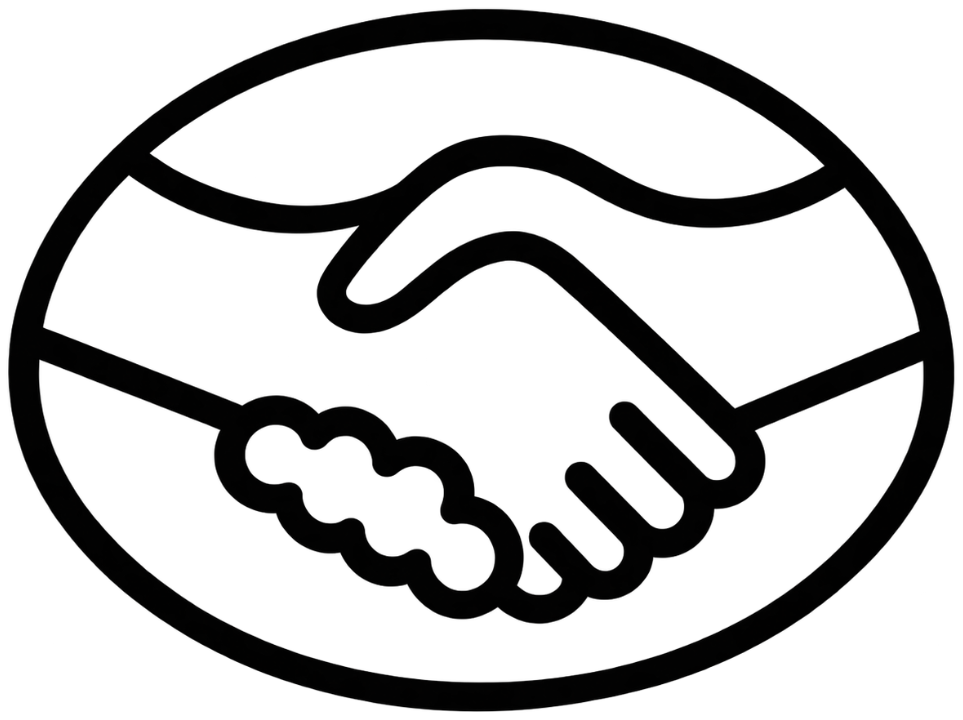
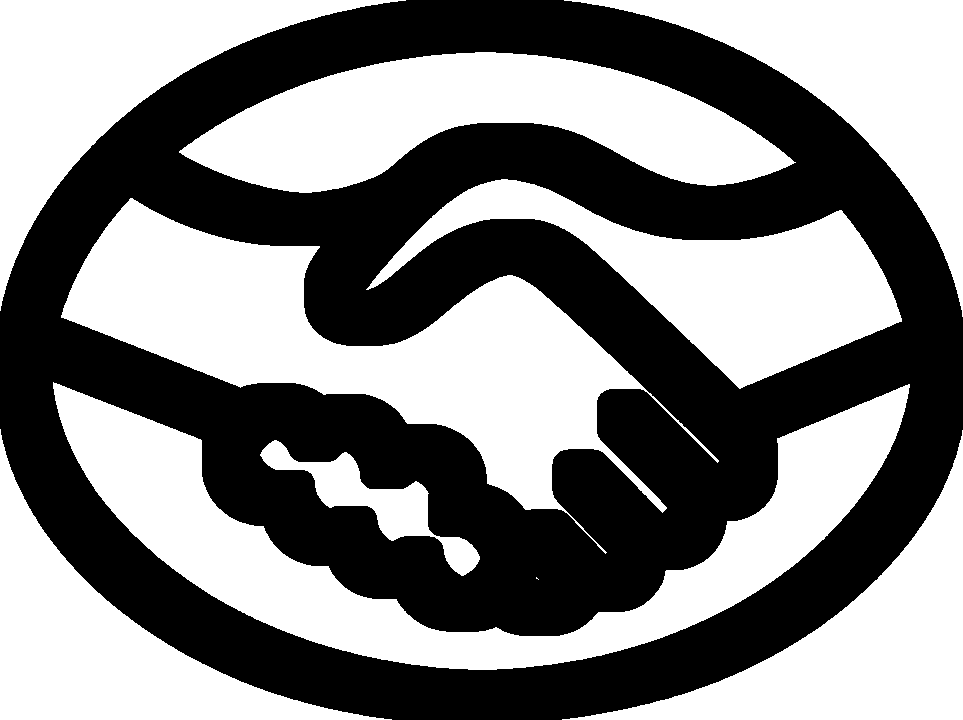
fix: reforça o branco do ícone do Mercado Livre no topo

Changed region(s): [[0.0, 0.0, 1.0, 1.0]]

diff --git a/css/base.css b/css/base.css
@@ -73,8 +73,10 @@ textarea { min-height: 88px; }
 .siga span, .atalho { color: var(--branco); font-size: 0.92rem; font-weight: 700; }
 .icone-topo { width: 32px; height: 32px; min-height: 32px; display: inline-flex; align-items: center; justify-content: center; color: var(--branco); border-radius: 999px; }
 .icone-topo svg, .icone-topo .logo-canal { width: 18px; height: 18px; }
+.icone-topo[aria-label="Mercado Livre"] .logo-canal { width: 24px; height: 24px; }
 .logo-canal { width: 20px; height: 20px; object-fit: contain; display: block; }
 .icone-rede .logo-canal { width: 28px; height: 22px; }
+.icone-rede[data-rede="mercadolivre"] .logo-canal { width: 30px; height: 24px; }
 .atalho { display: inline-flex; align-items: center; gap: 6px; min-height: 44px; padding: 0 10px; background: transparent; border: 0; cursor: pointer; text-decoration: none; border-radius: 999px; }
 .atalho:hover { background: rgba(255, 255, 255, 0.18); }
 .menu-suspenso { position: relative; }
